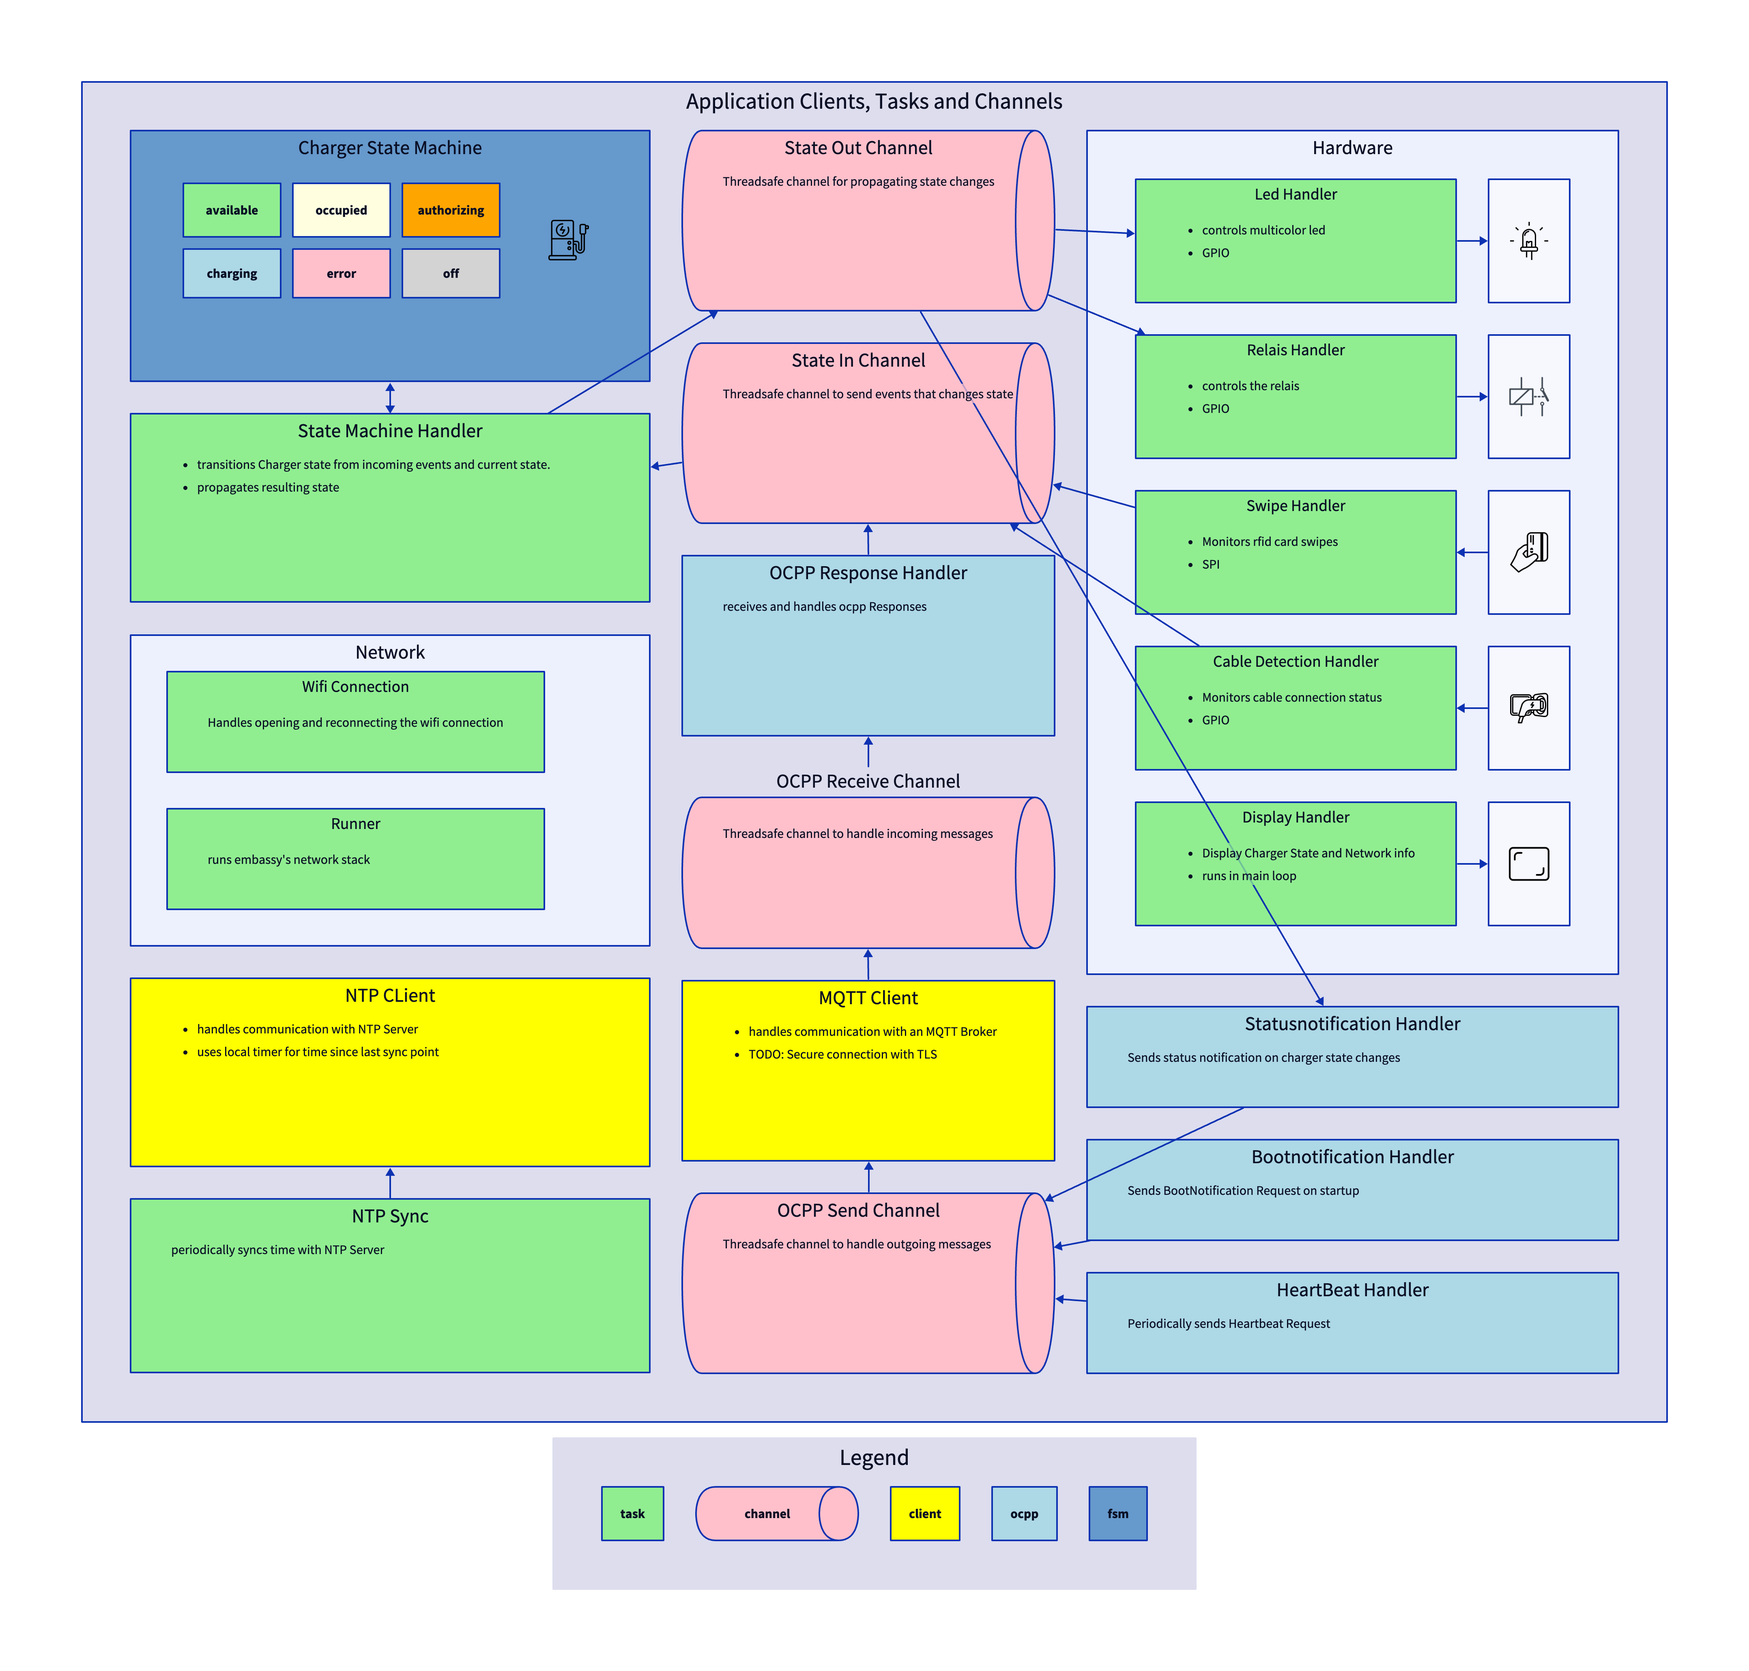
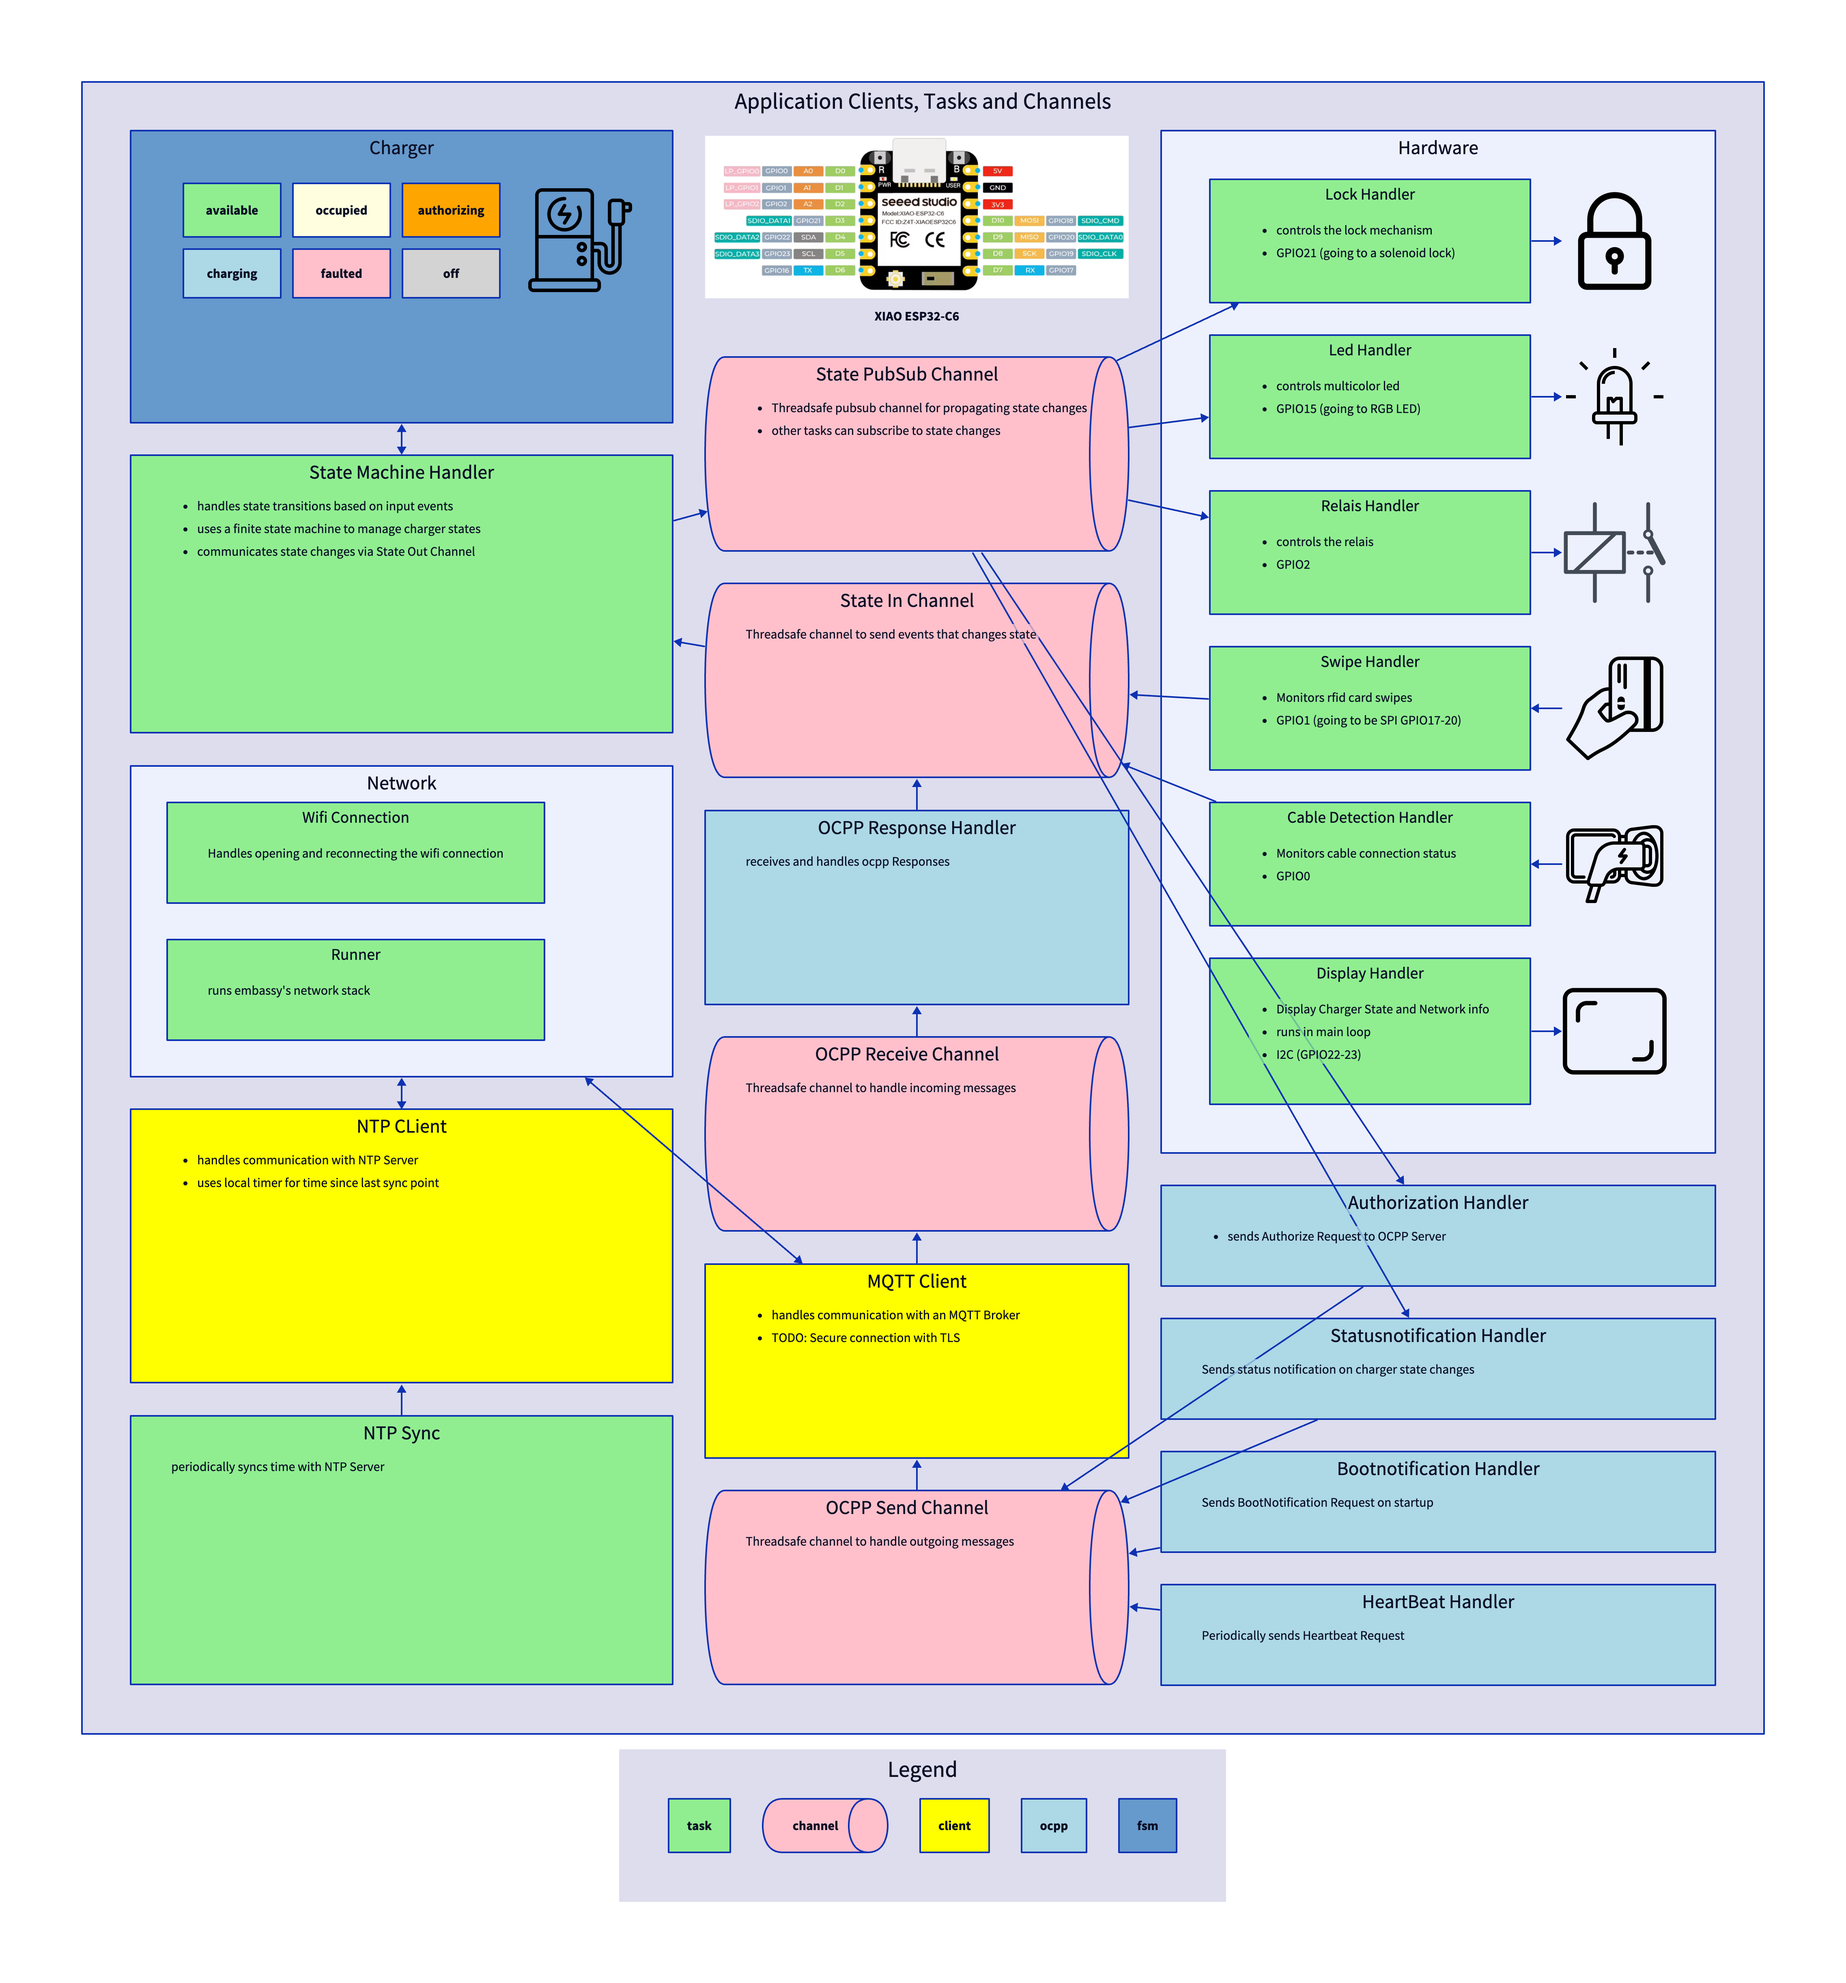
updated diagram and added script to generate png's from any d2 diagram found

diff --git a/TODO.md b/TODO.md
@@ -4,9 +4,14 @@
 * ~~Hook up SSD1306 display~~
 * ~~Use NTP Server to get the current date/time (no_std challenge)~~
 * ~~Time on display in local timezone~~
-* Setup workflow swipe-> AuthorizeReq -> AuthorizeResp -> charging -> StartTransaction
+* ~~Setup workflow swipe-> AuthorizeReq -> AuthorizeResp -> charging~~
+* Start- and StopTransaction
+* Clean up log and make it more consistent
+* Proper (typesafe) Response Handler
 * TLS Connection for MQTT
+
 
 ## Bugs
 
 * ~~MQTT Topic should be specific for the charger (Id instead of name)~~
+
